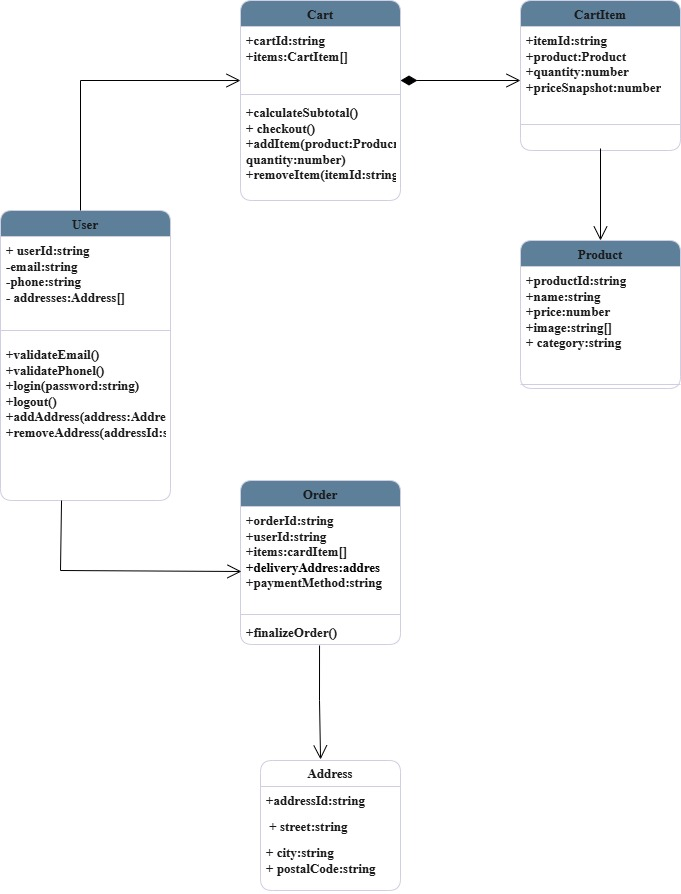
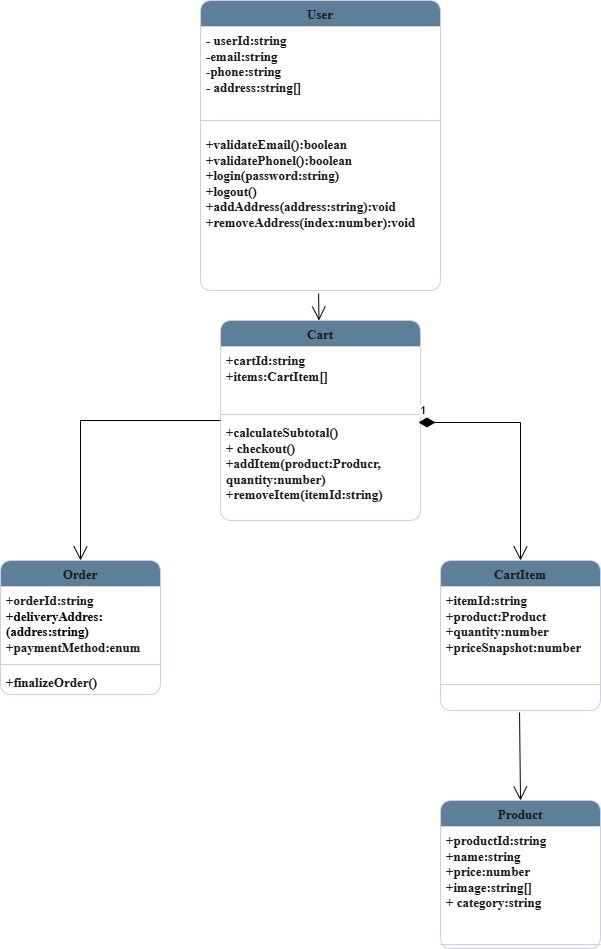
Add uml, description

diff --git a/README.md b/README.md
@@ -44,12 +44,27 @@ yarn build
 ![alt text](uml-larek.jpg)
 
 1. Класс User
-Реализует пользователя. Содержит id, email, номер, адрес пользователя. 
+Реализует управление данными пользователя и авторизацию его. Содержит id, email, номер, адрес пользователя. 
 Класс имеет такие методы: 
 * validateEmail, validatePhone - для проверки валидности email и номера телефона
-* login(password:string), logout() - для входа и выхода 
-* addAddress(addres:Addres), removeAddres(addresId:string) - для добавления и удаления адреса пользователя
+* login(password:string) - аутентификация пользователя
+* logout() - завершает сеанс пользователя
+* addAddress(addres:Addres), removeAddres(addresId:string) - для добавления и удаления адреса пользователя.
 
-2. Класс Order
-Реализует оформление заказа пользователя. Содержит id заказа, id пользователя, список товаров, адрес доставки, способ оплаты.
-Имеет метод 0
+2. Класс Cart
+ Реализует управление корзиной покупок. Содержит список товаров.
+ Класс имеет такие методы:
+ * calculateSubtotal() - для подсчета общей стоимости товаров
+ * checkout() - для перевода корзины в статус "оформлено"
+ * addItem(product: Product, quantity: number) - для добавления товара в корзину
+ * removeItem(itemId: string) - для удаления товара из корзины.
+
+3. Класс Order
+Реализует оформление и управление заказов пользователя. Содержит id заказа, адрес доставки, способ оплаты.
+Имеет метод finalizeOrder(), для выполнения завершающих действий для выполнения заказа.
+
+4. Класс Product
+Карточка товара. Содержит id, название, стоимость, изображение, категорию товаров.
+
+5. Класс CartItem
+Является элементом корзины, реализует связь между товаром и количеством. Содержит уникальный идентификатор, ссылку на товар, количество товара и стоимость на момент добавления.
